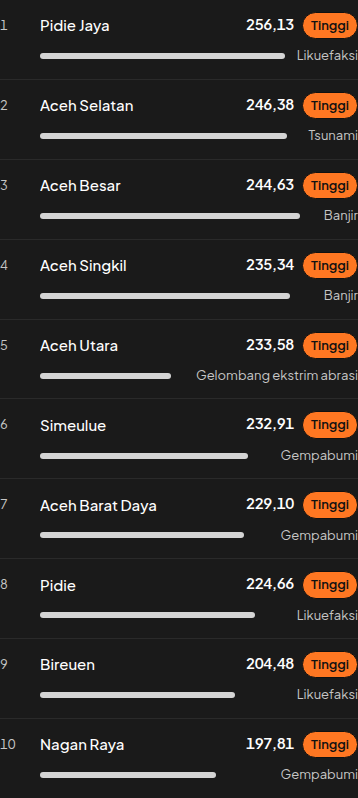
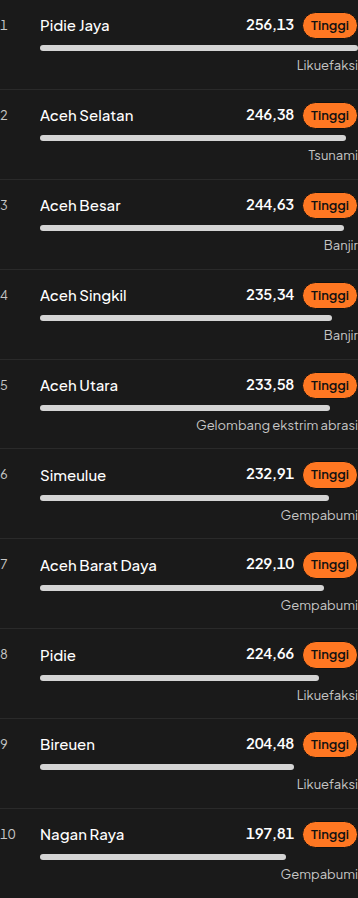
FE-67: give every IRBI bar the full row width
The hazard label sits under the bar, so the track is the row width
and the fill stays irb_2025 / max.

diff --git a/src/lib/fe-67-visual-2.test.ts b/src/lib/fe-67-visual-2.test.ts
@@ -156,6 +156,22 @@ describe("FE-67 visual-2", () => {
     assert.doesNotMatch(bars, /--chart-bar/);
   });
 
+  it("gives every IRBI bar the full row, with the hazard label underneath", () => {
+    const ladder = read("src/components/beranda/RisikoLadder.tsx");
+    const row = ladder.slice(
+      ladder.indexOf("function BarisKab"),
+      ladder.indexOf("export function RisikoLadder"),
+    );
+    assert.match(row, /kab\.irb_2025 \/ maks/);
+    assert.match(row, /col-start-2 col-end-4 min-w-0/);
+    assert.match(row, /mt-1 text-right text-\[var\(--text-dim\)\]/);
+    assert.match(row, /grid-cols-\[1\.75rem_1fr_auto\]/);
+    assert.doesNotMatch(row, /flex items-center gap-3/);
+    assert.doesNotMatch(row, /whitespace-nowrap|shrink-0/);
+    const between = row.slice(row.indexOf("<Bar"), row.indexOf("dariSlug"));
+    assert.doesNotMatch(between, /flex/);
+  });
+
   it("lays the red number band on one shared baseline", () => {
     const css = read("src/app/globals.css");
     const darkAt = css.indexOf('html[data-theme="dark"]');

diff --git a/src/components/beranda/RisikoLadder.tsx b/src/components/beranda/RisikoLadder.tsx
@@ -52,17 +52,15 @@ function BarisKab({
         </span>
       </span>
 
-      <span className="col-start-2 col-end-4 flex items-center gap-3">
+      <div className="col-start-2 col-end-4 min-w-0">
         <Bar
           ratio={maks > 0 ? kab.irb_2025 / maks : 0}
           className={kelasRisikoBar(kab.kelas_risiko)}
         />
-        <span
-          className={cn("shrink-0 whitespace-nowrap text-[var(--text-dim)]", TYPE_FLOOR_CLASS)}
-        >
+        <p className={cn("mt-1 text-right text-[var(--text-dim)]", TYPE_FLOOR_CLASS)}>
           {dariSlug(kab.ancaman_tertinggi, locale)}
-        </span>
-      </span>
+        </p>
+      </div>
     </li>
   );
 }

diff --git a/docs/pengembangan/jurnal/FE-67.md b/docs/pengembangan/jurnal/FE-67.md
@@ -58,6 +58,7 @@ Tangkapan:
 - `fe-67/chart-irbi-1440-gelap.png`
 - `fe-67/chart-irbi-390-terang.png`
 - `fe-67/chart-irbi-390-gelap.png`
+- `fe-67/chart-irbi-1440-terang-semua.png`
 
 Pita 1440 terang dan gelap, 390 terang dan gelap, serta varian kabupaten: latar `rgb(200, 16, 46)`, angka putih satu garis dasar (selisih 0px), catatan selisih 1px. Sparkline lima, Hilang tanpa svg. Batang kabupaten 23 baris satu warna: `#c8102e` terang, `#f25563` gelap. Peringkat IRBI tinta netral (`#111111` terang, `#d4d4d4` gelap); chip oranye/emas/hijau tetap.
 
@@ -77,7 +78,7 @@ Pita 1440 terang dan gelap, 390 terang dan gelap, serta varian kabupaten: latar 
 
 Pita angka menjadi permukaan merek: `--band-bg` `#c8102e` di terang dan gelap, teks `#ffffff` (5,88:1), label dan catatan `rgba(255,255,255,.85)` (komposit sekitar 4,53:1). Pembatas ubin `bg-white/20`. Garis atas tinta diganti `--band-rule` `#8e1224`. Label memakai kotak dua baris (`line-height: 1.25`, tinggi `calc(2 * 1.25 * var(--type-floor))`) supaya enam angka duduk di satu garis dasar. `leading-*` tidak dipakai karena `twMerge` menghapusnya di samping `text-[0.8125rem]`. Satuan dan awalan `Rp` rata dasar dengan angka dan memakai putih penuh, karena opasitas 65–70% jatuh di bawah 4,5:1. Catatan 13px di baris bawah, kotak tiga baris, rata atas. Di 390 kisi tetap 2 kolom dan ubin lebar merentang 2 kolom. Sparkline mengikuti `--band-fg` (putih), segmen putus tetap opasitas 0,55. Grafik batang 19 tahun tidak diubah.
 
-Batang kabupaten memakai `--chart-bar`: `#c8102e` di terang (5,88:1 di putih). Di gelap `#c8102e` hanya 2,96:1 pada `--bg-raised` `#1a1a1a`, jadi token gelap adalah `#f25563` (5,18:1 di sana, 5,90:1 di `--chart-surface` `#0a0a0a`). Peringkat IRBI memakai `--chart-bar-neutral`: `#111111` di terang (18,88:1 di putih) dan `#d4d4d4` di gelap (11,74:1 di `#1a1a1a`). Chip kelas IRBI, label ancaman, dan pil ringkasan tetap.
+Batang kabupaten memakai `--chart-bar`: `#c8102e` di terang (5,88:1 di putih). Di gelap `#c8102e` hanya 2,96:1 pada `--bg-raised` `#1a1a1a`, jadi token gelap adalah `#f25563` (5,18:1 di sana, 5,90:1 di `--chart-surface` `#0a0a0a`). Peringkat IRBI memakai `--chart-bar-neutral`: `#111111` di terang (18,88:1 di putih) dan `#d4d4d4` di gelap (11,74:1 di `#1a1a1a`). Batang selebar isi baris (kolom nama sampai tepi kanan chip), isi `irb_2025 / maks`, label ancaman di bawah rata kanan. Chip kelas IRBI, label ancaman, dan pil ringkasan tetap.
 
 ## Keputusan
 
